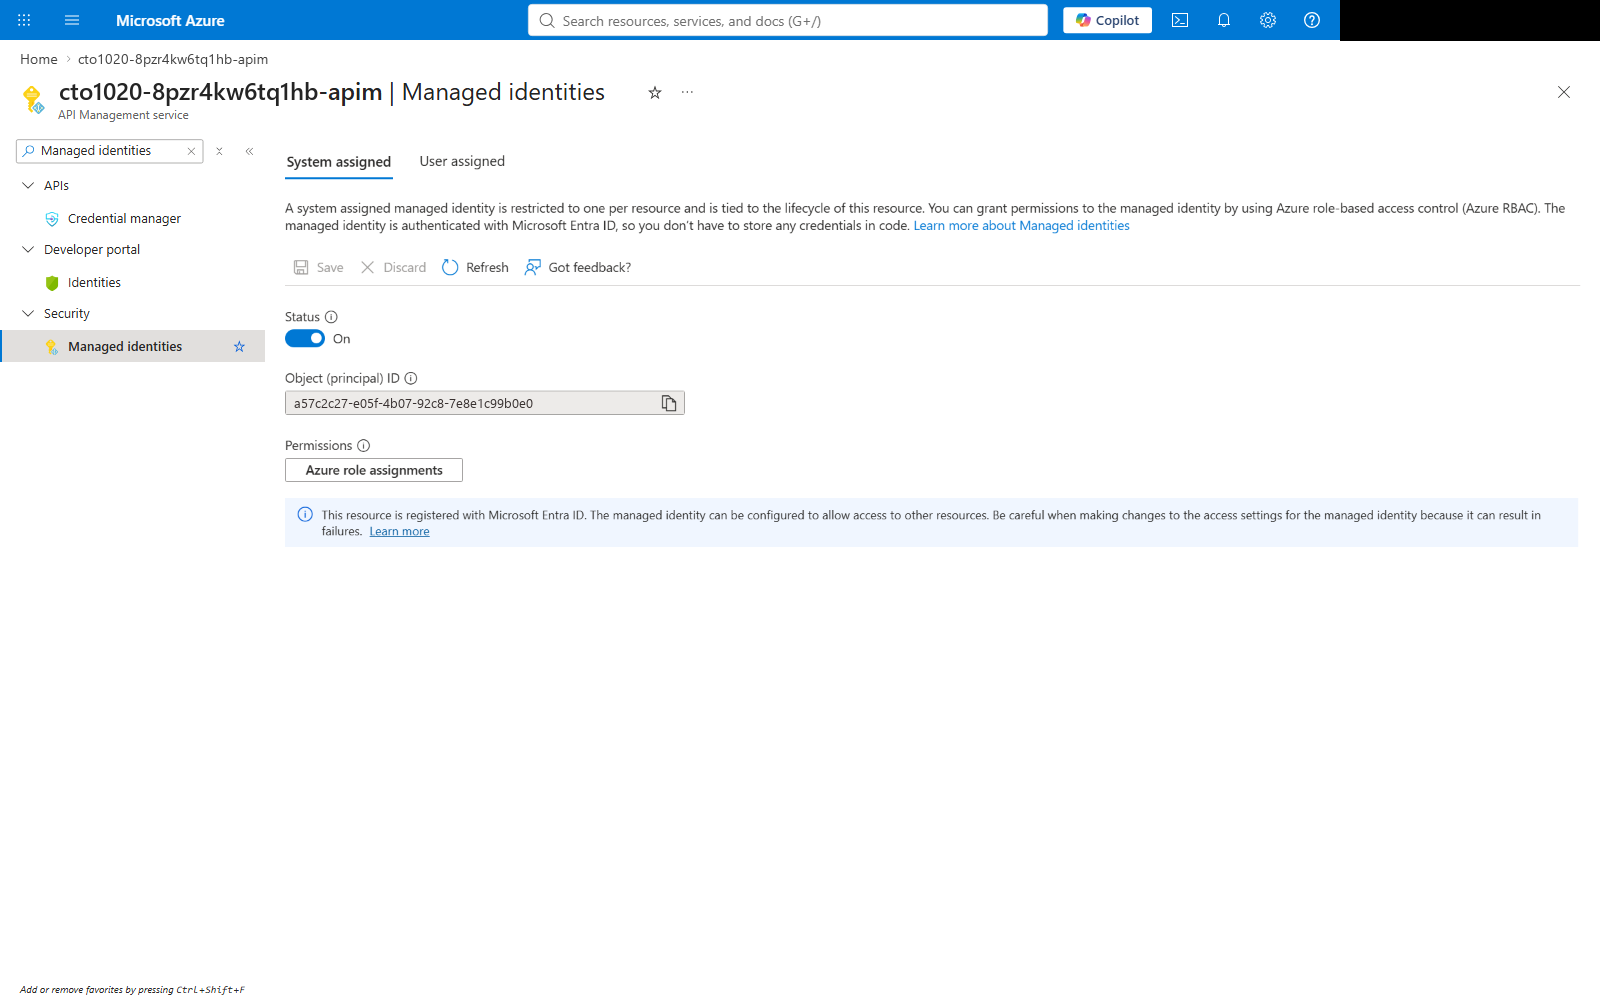
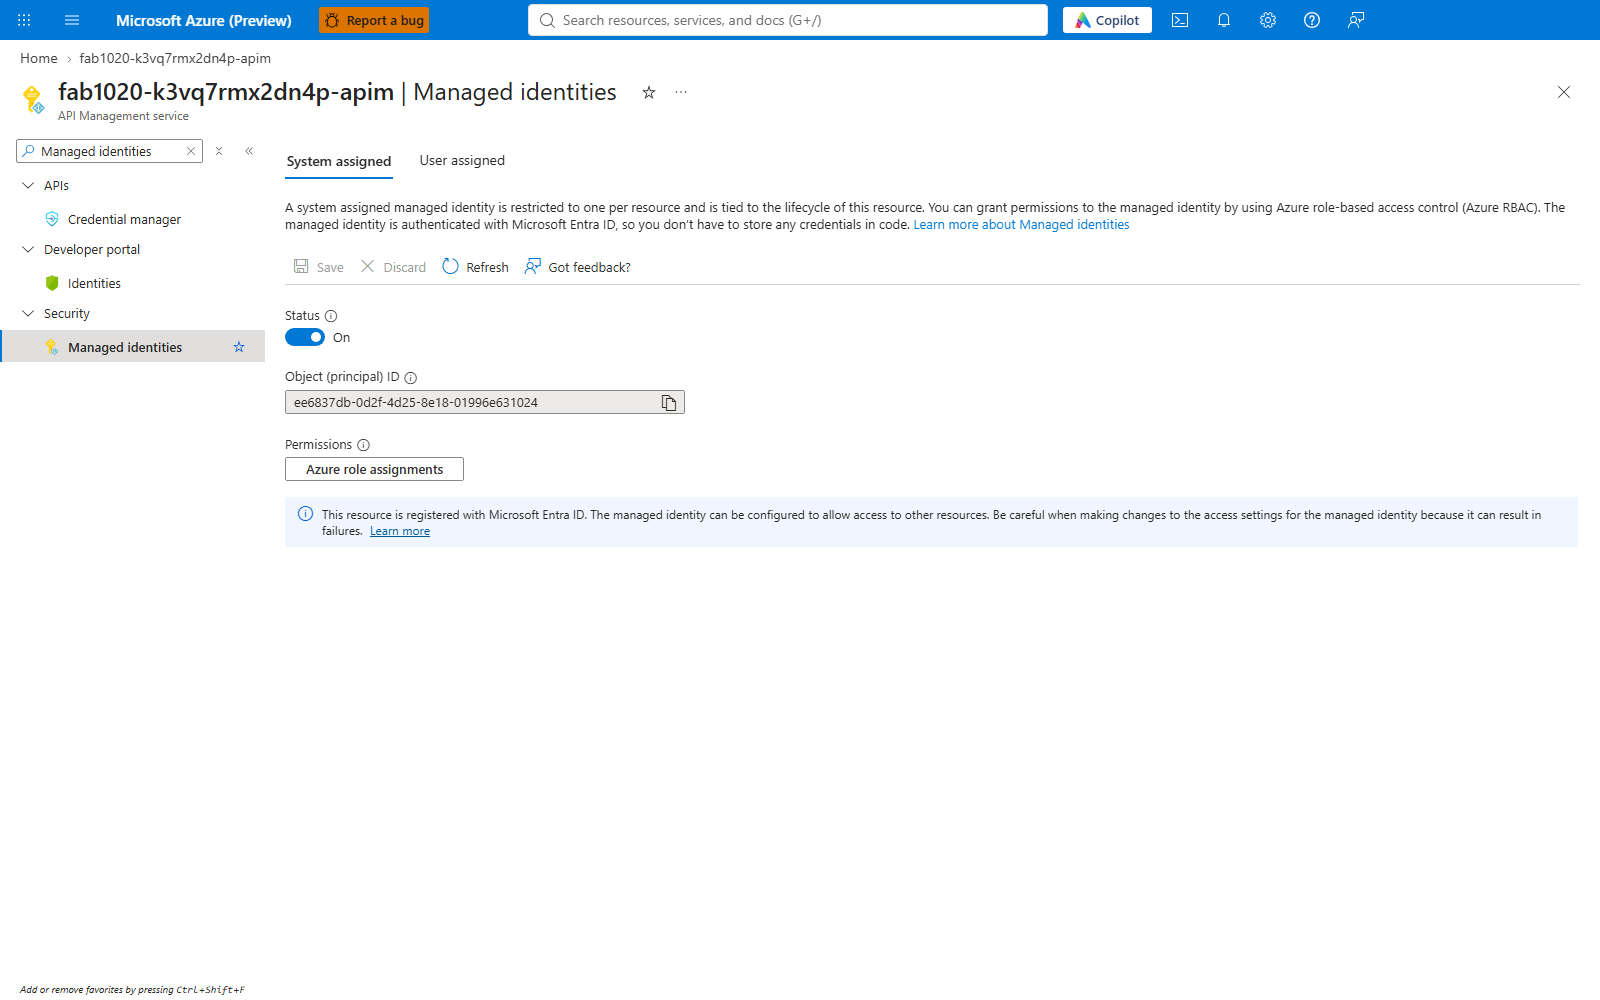
docs: live Portal verification captures with pseudonyms
Replace the 13 edited staged-portal images with captures taken live from
the signed-in Fabrikam lab Portal on 2026-10-24. Each step found its
expected value on the blade; page text was replaced with same-shape
pseudonyms before capture, and an OCR check (which finds real values on
an unpseudonymised capture) finds none. Captions, run report, STATUS and
CHANGELOG updated.

Copilot-Session: c9943014-bdc0-4355-9a02-1a423ee4953c

diff --git a/docs/runbooks/STAGED-DEPLOYMENT-V2.md b/docs/runbooks/STAGED-DEPLOYMENT-V2.md
@@ -258,10 +258,12 @@ API 401 without a token. Telemetry: every allowed response's `x-ccof-request-id`
 ### Evidence and scope
 
 Each Portal step below lists the blade that shows the result of a stage. Images under
-`images/staged-portal/` are captures of the Contoso Standard v2 deployment (2026-10-21), taken by
-the Playwright walkthrough from the signed-in Portal. Resource names, IDs and the subscription name
-were then replaced with pseudonyms of the same shape (Contoso lab resources appear as `cto1020-...`);
-the signed-in account is hidden. The five historical images are middle-masked captures
+`images/staged-portal/` are live captures of the Fabrikam lab Standard v2 deployment, taken on
+2026-10-24 by the Playwright walkthrough from the signed-in Portal. Each capture passed its check:
+the blade showed the expected value (for example `Cognitive Services User` on the Foundry account).
+Before each capture, names, IDs and the subscription name in the page were replaced with pseudonyms
+of the same shape (Fabrikam lab resources appear as `fab1020-...`); the signed-in account is hidden.
+The Azure CLI client ID `04b07795-8ddb-461a-bbee-02f9e1bf7b46` is the real public value. The five historical images are middle-masked captures
 from the earlier manual guide and show navigation, not a new deployment's result
 ([image manifest](images/portal/screenshots.json)). The
 [Standard v2 and Foundry run report](../STAGED-STDV2-RUNS-2026-10-20.md) holds the read-back
@@ -307,7 +309,7 @@ wrong directory.
 
 ![Historical Portal resource-group creation form; not a new deployment result](images/portal/02-2-middle-masked.png)
 
-![Resource group Deployments, captured 2026-10-21 under the earlier numbering (stage3-schema, stage4-grants, stage6-config); new deployments are named stage2-schema, stage3-grants, stage5-config and stage6-network](images/staged-portal/01-rg-deployments.png)
+![Resource group Deployments, captured 2026-10-24: current names (stage2-schema, stage3-grants, stage5-config) above the 2026-10-20 run's earlier numbering (stage3-schema, stage4-grants, stage6-config)](images/staged-portal/01-rg-deployments.png)
 
 ![API Management Managed identities: system assigned identity on](images/staged-portal/01-apim-identity.png)
 

diff --git a/docs/STAGED-STDV2-RUNS-2026-10-20.md b/docs/STAGED-STDV2-RUNS-2026-10-20.md
@@ -122,6 +122,7 @@ intercepted or bypassed.
 | Manual Portal steps covered by deep links | Every section 0-8 and the Foundry section maps to 1-4 Portal steps (20 per run) |
 | Portal walkthrough, Contoso (2026-10-21) | 19 of 20 steps pass. `06-apim-apis`: the APIs blade stayed on "Service is getting ready..." in four afternoon attempts; it passed in the morning run, and ARM lists the `Claude Messages (staged)` API with the service `Succeeded` |
 | Portal walkthrough, Fabrikam lab (2026-10-21) | 20 of 20 steps pass (`00-subscription-access` and `06-apim-apis` on a targeted rerun) |
+| Portal re-verification, Fabrikam lab (2026-10-24) | 13 of 13 published steps pass after Stages 5 and 7 of the DR and budget work; page text pseudonymised before capture, no real identifier found by OCR (the check finds them on an unpseudonymised capture) |
 | Walkthrough negative control | `06-resolver-auth` opened on the Function App overview (without the Authentication menu entry) reports `mismatch`; the Authentication blade reports `pass` |
 
 Walkthrough fixes made during the run (in [tests/playwright](../tests/playwright/README.md)):

diff --git a/docs/CHANGELOG.md b/docs/CHANGELOG.md
@@ -10,8 +10,9 @@
 - 35 links to unpublished ADRs, status pages and images became plain text; `tests/docs-links.test.ts`
   fails on any relative Markdown link or image that does not resolve.
 - Screenshots: stage-run and budget-test terminal captures re-rendered from the original transcripts,
-  admin console recaptured read-only from the Fabrikam lab (writes blocked), and 13 Portal captures
-  repainted. Names, IDs, subscriptions and hosts are pseudonyms of the same shape; OCR of all 55
+  admin console recaptured read-only from the Fabrikam lab (writes blocked), and 13 Portal pages
+    captured live from the signed-in Fabrikam lab Portal on 2026-10-24, each checked for its expected
+    value, with page text replaced by pseudonyms before capture. Names, IDs, subscriptions and hosts are pseudonyms of the same shape; OCR of all 55
   changed images finds none of the real values. Lab environments are named Fabrikam lab and Contoso.
 
 ## 2026-10-24 - Budget soft limit and spend pacing

diff --git a/docs/STATUS.md b/docs/STATUS.md
@@ -101,8 +101,8 @@ No live directory lookup, customer deployment or Graph permission change was per
 ## Standard v2 and Foundry, two tenants (S3, complete with open items)
 
 Verified 2026-10-20 in Fabrikam lab and Contoso ([report](STAGED-STDV2-RUNS-2026-10-20.md)).
-Open: Portal walkthrough screenshots need a persistent Portal sign-in; Graph application consent
-needs PIM activation in Contoso; Claude in Contoso needs a non-sandbox subscription.
+Open: Graph application consent needs PIM activation in Contoso; Claude in Contoso needs a
+non-sandbox subscription. Portal screenshots were recaptured live from the Fabrikam lab on 2026-10-24.
 
 
 ## Staged deployment, stages 0-8

diff --git a/docs/runbooks/DEPLOYMENT-RUNBOOK.md b/docs/runbooks/DEPLOYMENT-RUNBOOK.md
@@ -68,7 +68,7 @@ The following lab capture shows the scope and authorized clients; names and IDs 
 (the Azure CLI client ID is the real public value).
 Names in screenshots are navigation examples, not customer values.
 
-![Gateway scope and authorized clients, Portal capture 21 October 2026](images/staged-portal/04-gateway-expose-api.png)
+![Gateway scope and authorized clients, Portal capture 24 October 2026](images/staged-portal/04-gateway-expose-api.png)
 
 **App registration > Authentication** shows public-client redirects. This historical
 reference includes an additional Desktop browser callback from that lab; only the callbacks
